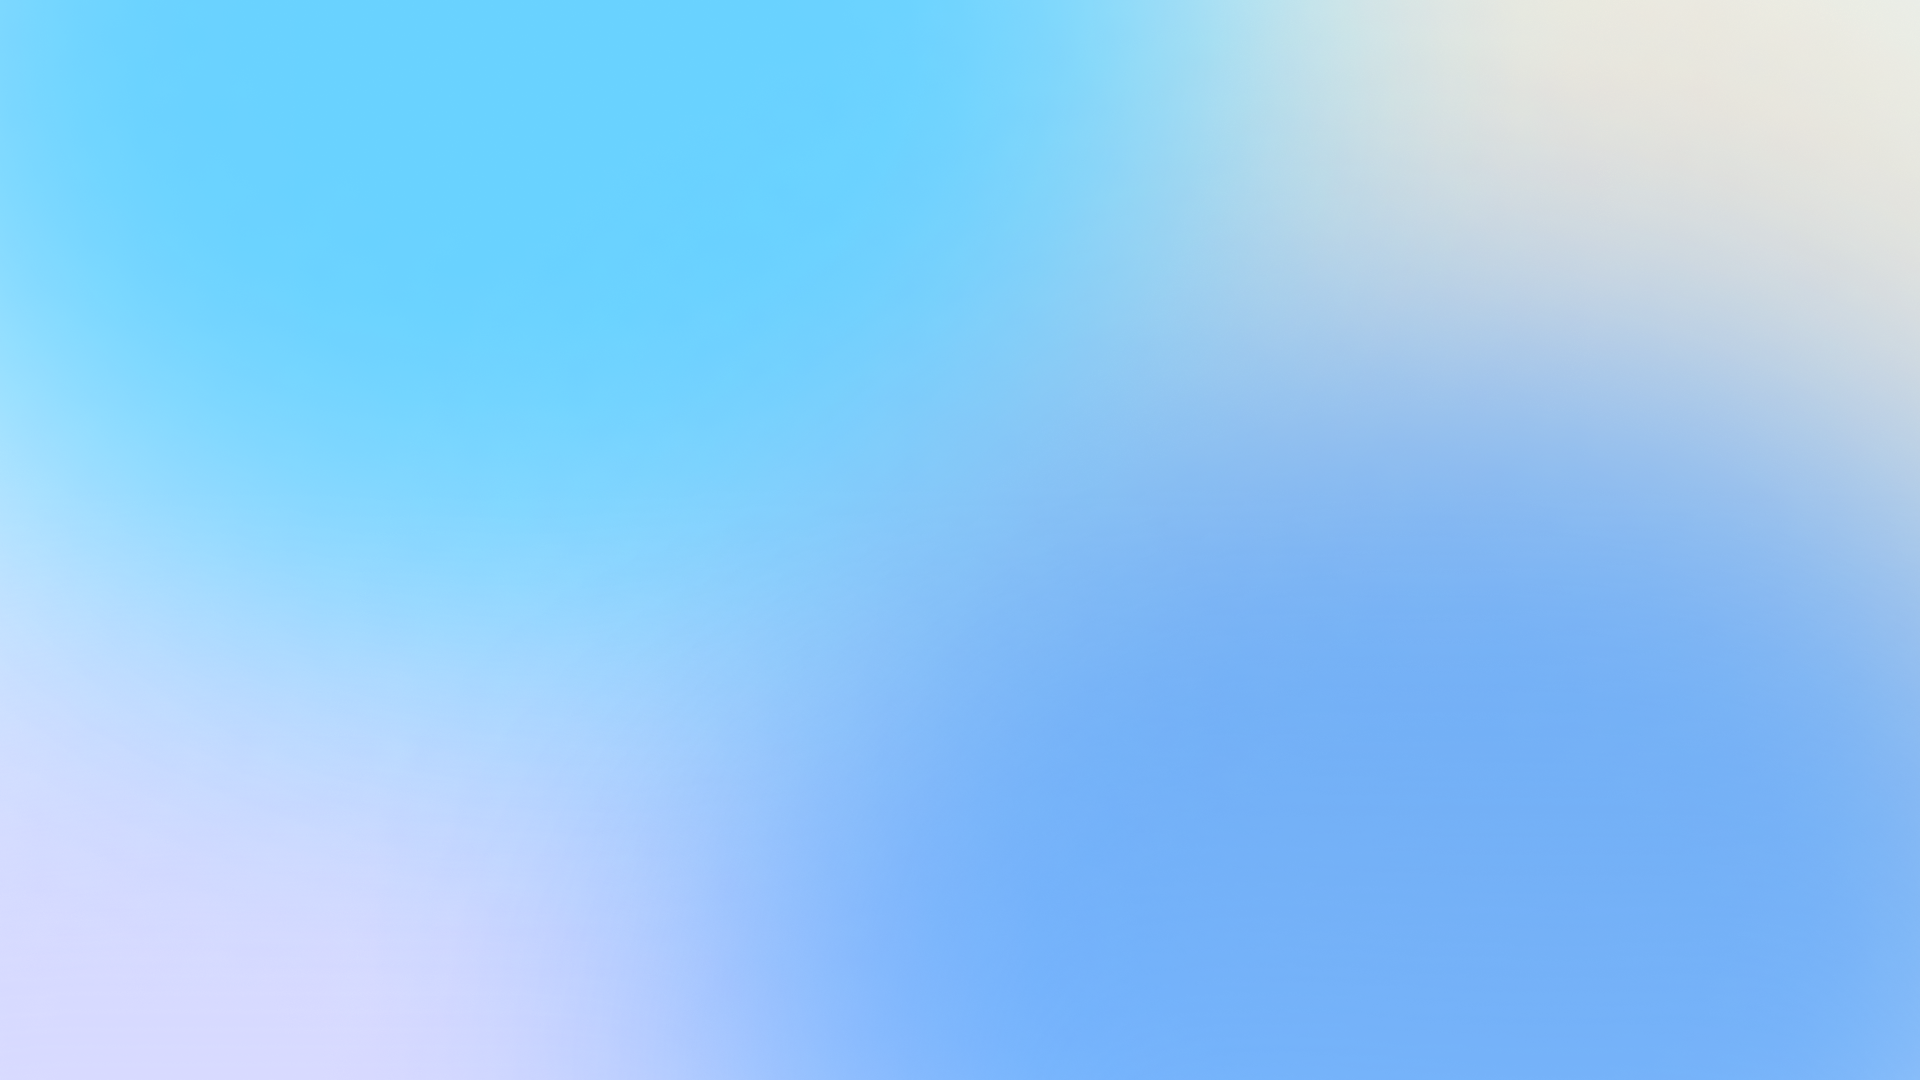
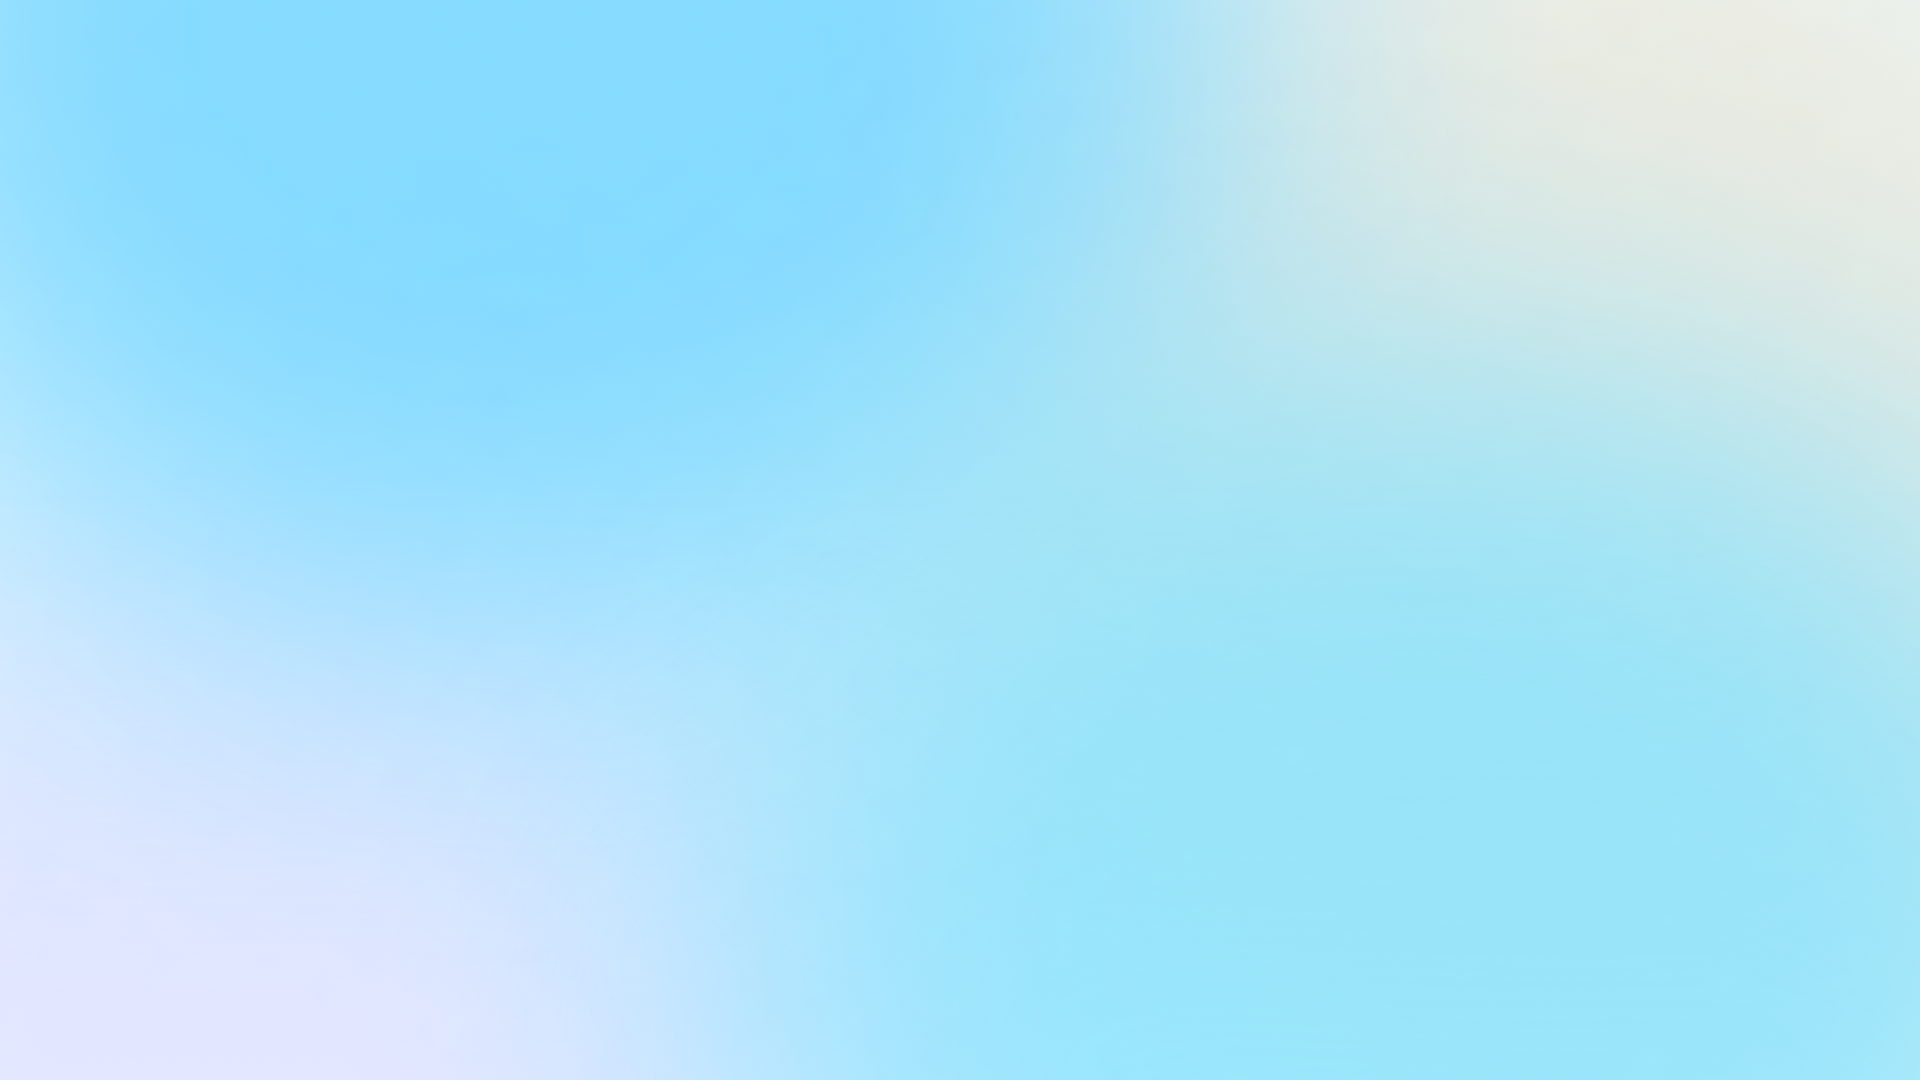
fix: 버블 animation pop 기능 반영

diff --git a/src/pages/landing/Bubble.style.js b/src/pages/landing/Bubble.style.js
@@ -1,12 +1,26 @@
-import styled, { keyframes } from "styled-components";
+import styled, { keyframes, css } from "styled-components";
 
-// @keyframes 애니메이션을 별도로 정의
-const animate = keyframes`
+// 둥둥 떠다니는 애니메이션
+const float = keyframes`
   0% {
-    transform: translateY(0);
+    transform: translate(-20%, -20%) translateY(0);
+  }
+  50% {
+    transform: translate(-20%, -20%) translateY(-20px);
   }
   100% {
-    transform: translateY(-100px);
+    transform: translate(-20%, -20%) translateY(0);
+  }
+`;
+
+const pop = keyframes`
+  0% {
+    transform: translate(-20%, -20%) scale(1);
+    opacity: 1;
+  }
+  100% {
+    transform: translate(-20%, -20%) scale(1.3);
+    opacity: 0;
   }
 `;
 
@@ -15,16 +29,25 @@ export const StyledBubble = styled.div`
   height: ${(props) => props.height};
   border-radius: 50%;
   position: absolute;
-  border: 1px solid rgba(0,0,0,0.01);
   top: ${(props) => props.top};
   left: ${(props) => props.left};
   background: linear-gradient(
     to top right,
-    rgba(124, 224, 255, 0.52),
-    rgba(124, 224, 255, 0.06),
+    rgba(124, 224, 255, 0.32),
+    rgba(209, 252, 255, 0.26),
+    rgba(235, 231, 255, 0.4),
     rgba(235, 231, 255, 1)
   );
-  opacity: 100%;
-  animation: ${animate} ${(props) => props.time} ease-in-out infinite alternate;
-  box-shadow: 0px 10px 10px 0px rgba(49, 136, 164, 0.05);
+  box-shadow: 10px 10px 10px 0px rgba(64, 163, 255, 0.06);
+  opacity: 1;
+  transform: translate(-50%, -50%);
+  animation: ${(props) =>
+    props.pop
+      ? css`
+          ${pop} 0.5s ease-in-out forwards
+        `
+      : css`
+          ${float} ${(props) => props.time} ease-in-out infinite
+        `};
+  cursor: pointer;
 `;

diff --git a/src/pages/landing/Bubble.jsx b/src/pages/landing/Bubble.jsx
@@ -1,7 +1,18 @@
 import React from "react";
+import { useState } from "react";
 import { StyledBubble } from "./Bubble.style";
 
+
 export default function Bubble({ width, height, top, left, time }) {
+  const [isPopped, setIsPopped] = useState(false);
+
+  const handleClick = () => {
+    setIsPopped(true);
+    setTimeout(() => {
+      setIsPopped(false);
+    }, 2000);
+  };
+
   return (
     <StyledBubble
       width={width}
@@ -9,6 +20,8 @@ export default function Bubble({ width, height, top, left, time }) {
       top={top}
       left={left}
       time={time}
+      pop={isPopped}
+      onClick={handleClick}
     />
   );
 }
